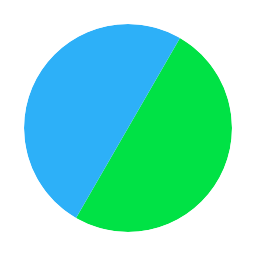
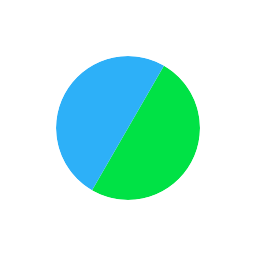
Update images

Changed region(s): [[0.0938, 0.0938, 0.9062, 0.9062]]

diff --git a/CHANGELOG_JP.md b/CHANGELOG_JP.md
@@ -48,6 +48,7 @@
 - `Avatar Converter Settings` の変換ボタンによる手動変換で `Platform GameObject Remover` の設定を適用し、Android 向けに指定された GameObject を削除するよう変更。
 - `Convert Avatar for Mobile` で `VQT Network ID Assigner` を自動追加しないよう変更。代わりに `Avatar Converter Settings` の高度な設定に `Network ID を割り当てる` オプションを追加。
 - メニューアイコン設定を `Avatar Converter Settings` に統合し、NDMFのアイコン処理を `VQT Menu Icon Resizer` に統一。
+- コンポーネントのアイコンを調整し、視認性を向上。
 - `Convert Avatar for Mobile` を `Setup Avatar for Mobile` に改名し、初期セットアップをMA/AAOの利用可否対応・既存コンポーネント無効化表示・`MA Sync Parameter Sequence` の `PrimaryPlatform=PC` 設定を含む挙動へ統合。
 - `Avatar Converter Settings` インスペクターのレイアウトを改善。
 - テクスチャキャッシュの上限のデフォルトを 128MB から 1GB に変更。生成したテクスチャが再利用される前に破棄されにくくなります。設定を変更していないプロジェクトは自動的に新しいデフォルトへ更新されます。

diff --git a/CHANGELOG.md b/CHANGELOG.md
@@ -48,6 +48,7 @@ and this project adheres to [Semantic Versioning](https://semver.org/spec/v2.0.0
 - Change suffix of converted avatar's object name to ` (Mobile)` instead of ` (Android)`.
 - Manual conversion from `Avatar Converter Settings` now applies `Platform GameObject Remover` settings and removes marked GameObjects for Android.
 - `Convert Avatar for Mobile` no longer auto-attaches `VQT Network ID Assigner`; use the new `Assign Network IDs` option in `Avatar Converter Settings` advanced settings instead.
+- Adjusted component icons for improved visual consistency.
 - Integrated menu icon settings into `Avatar Converter Settings`, and aligned NDMF icon processing with `VQT Menu Icon Resizer`.
 - Renamed `Convert Avatar for Mobile` to `Setup Avatar for Mobile` and updated setup to use availability-aware MA/AAO options with disabled already-added items and `MA Sync Parameter Sequence` defaulting `PrimaryPlatform` to `PC`.
 - Improved `Avatar Converter Settings` inspector layout.
